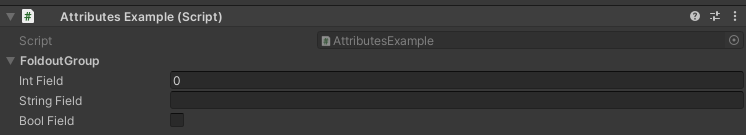
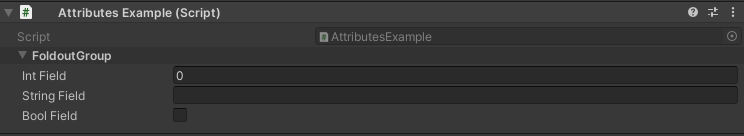
Update 1.6.0

diff --git a/docs/source/conf.py b/docs/source/conf.py
@@ -6,7 +6,7 @@ project = 'EditorAttributes'
 copyright = '2023, v0lt'
 author = 'v0lt'
 
-release = '1.5.0'
+release = '1.6.0'
 
 # -- General configuration
 

diff --git a/docs/source/Attributes/guicolor.rst b/docs/source/Attributes/guicolor.rst
@@ -1,15 +1,14 @@
-Line Attribute
-==============
+GUIColor Attribute
+==================
 
-Attribute to draw a line in the inspector
+Attribute to color the GUI
 
 **Parameters:**
 	- ``float`` red: Red amount
 	- ``float`` green: Green amount
 	- ``float`` blue: Blue amount
 	- ``string`` hexColor: The color in hexadecimal
-	- `optional`, ``GUIColor`` color: The color of the line
-	- `optional`, ``float`` alpha: Alpha amount
+	- ``GUIColor`` color: The color of the GUI
 
 Example::
 
@@ -18,17 +17,20 @@ Example::
 	
 	public class AttributesExample : MonoBehaviour
 	{
+		[GUIColor(GUIColor.Lime)]
 		[SerializeField] private int field01;
-		[Line]
 		[SerializeField] private int field02;
-		[Line(GUIColor.Green)]
 		[SerializeField] private int field03;
-		[Line(GUIColor.Cyan, 0.3f)]
+	
+		[GUIColor(144f, 151f, 222f)]
 		[SerializeField] private int field04;
-		[Line(250f, 129f, 120f)]
 		[SerializeField] private int field05;
-		[Line("#a86c2f")]
 		[SerializeField] private int field06;
+	
+		[GUIColor("#8c508b")]
+		[SerializeField] private int field07;
+		[SerializeField] private int field08;
+		[SerializeField] private int field09;
 	}
-
-.. image:: ../Images/Line01.png
+	
+.. image:: ../Images/GUIColor01.png

diff --git a/docs/source/Attributes/colorfield.rst b/docs/source/Attributes/colorfield.rst
@@ -1,0 +1,25 @@
+ColorField Attribute
+====================
+
+Attribute to color a field in the inspector
+
+**Parameters:**
+	- ``float`` red: Red amount
+	- ``float`` green: Green amount
+	- ``float`` blue: Blue amount
+	- ``string`` hexColor: The color in hexadecimal
+	- ``GUIColor`` color: The color of the field
+
+Unlike the :doc:`guicolor` the `ColorField Attribute` only colors the field is attached to and overrides the :doc:`guicolor`::
+
+	using UnityEngine;
+	using EditorAttributes;
+	
+	public class AttributesExample : MonoBehaviour
+	{
+		[SerializeField, ColorField(GUIColor.Green)] private int field01;
+		[SerializeField, ColorField(255f, 0f, 123f)] private int field02;
+		[SerializeField, ColorField("#00f2ff")] private int field03;
+	}
+	
+.. image:: ../Images/ColorField01.png

diff --git a/docs/source/changelogs.rst b/docs/source/changelogs.rst
@@ -1,6 +1,15 @@
 Changelogs
 ==========
 
+EditorAttributes v1.6.0 Changelog:
+----------------------------------
+- Added ColorField attribute
+- Added GUIColor attribute
+- Added option to draw groups inside boxes
+- Fixed functions not beeing found
+- Handled Illegal characters in path ArgumentException on the button
+- Updated FoldoutGroup GUI
+
 EditorAttributes v1.5.0 Changelog:
 ----------------------------------
 - Added AssetPreview attribute

diff --git a/docs/source/Attributes/togglegroup.rst b/docs/source/Attributes/togglegroup.rst
@@ -7,6 +7,7 @@ Attribute to display the specified fields in a toggleble group
 	- ``string`` groupName: The name of the group
 	- `optional`, ``float`` labelWidth: The width of the field labels
 	- `optional`, ``float`` fieldWidth: The width of the input fields
+	- `optional`, ``bool`` drawInBox: Draw the group in a nice box
 	- `params`, ``string`` fieldsToGroup: The name of the fields to group
 
 Example::

diff --git a/docs/source/Attributes/foldoutgroup.rst b/docs/source/Attributes/foldoutgroup.rst
@@ -7,6 +7,7 @@ Attribute to display the specified fields in a foldout
 	- ``string`` groupName: The name of the group
 	- `optional`, ``float`` labelWidth: The width of the field labels
 	- `optional`, ``float`` fieldWidth: The width of the input fields
+	- `optional`, ``bool`` drawInBox: Draw the group in a nice box
 	- `params`, ``string`` fieldsToGroup: The name of the fields to group
 
 Example::

diff --git a/docs/source/Attributes/horizontalgroup.rst b/docs/source/Attributes/horizontalgroup.rst
@@ -6,6 +6,7 @@ Attribute to display specified fields horizontally.
 **Parameters:**
 	- `optional`, ``float`` labelWidth: The width of the field labels
 	- `optional`, ``float`` fieldWidth: The width of the input fields
+	- `optional`, ``bool`` drawInBox: Draw the group in a nice box
 	- `params`, ``string`` fieldsToGroup: The name of the fields to group
 
 Example::

diff --git a/docs/source/Attributes/verticalgroup.rst b/docs/source/Attributes/verticalgroup.rst
@@ -6,6 +6,7 @@ Attribute to display specified fields vertically.
 **Parameters:**
 	- `optional`, ``float`` labelWidth: The width of the field labels
 	- `optional`, ``float`` fieldWidth: The width of the input fields
+	- `optional`, ``bool`` drawInBox: Draw the group in a nice box
 	- `params`, ``string`` fieldsToGroup: The name of the fields to group
 
 Example::

diff --git a/docs/source/index.rst b/docs/source/index.rst
@@ -48,6 +48,8 @@ Contents:
     Attributes/assetpreview
     Attributes/image
     Attributes/line
+    Attributes/guicolor
+    Attributes/colorfield
     Attributes/dropdown
     Attributes/tagdropdown
     Attributes/scenedropdown
